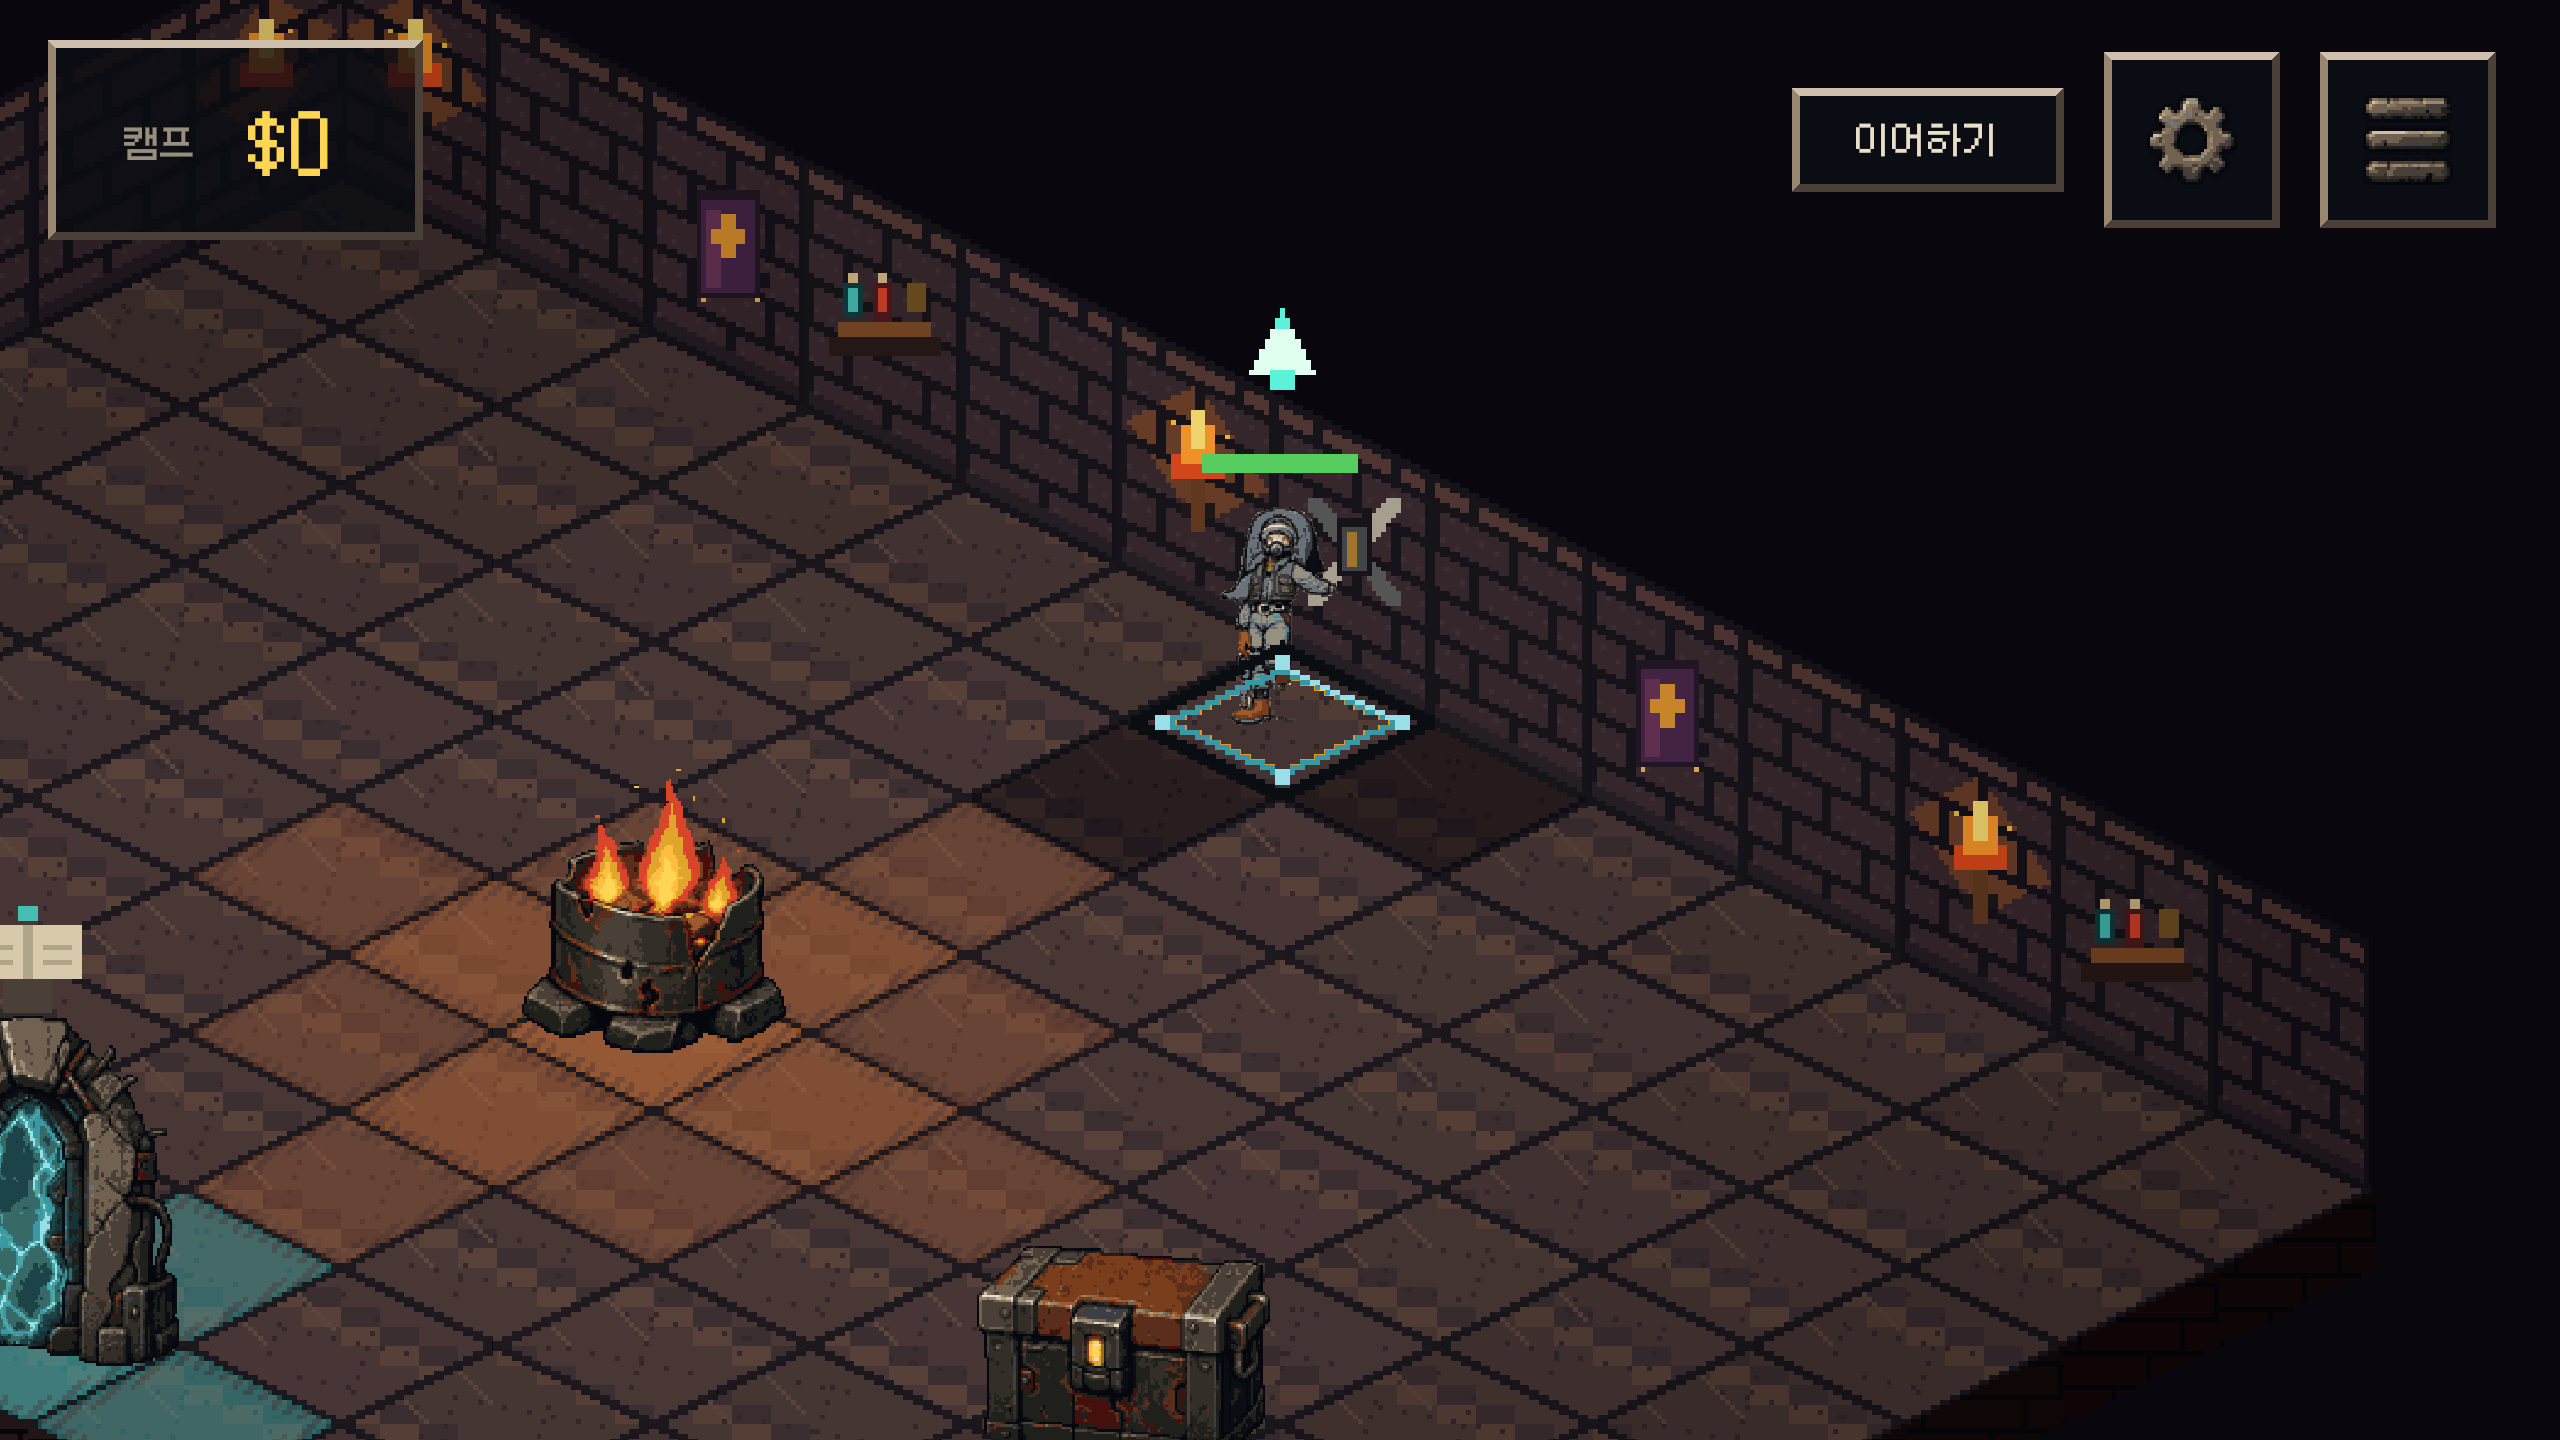
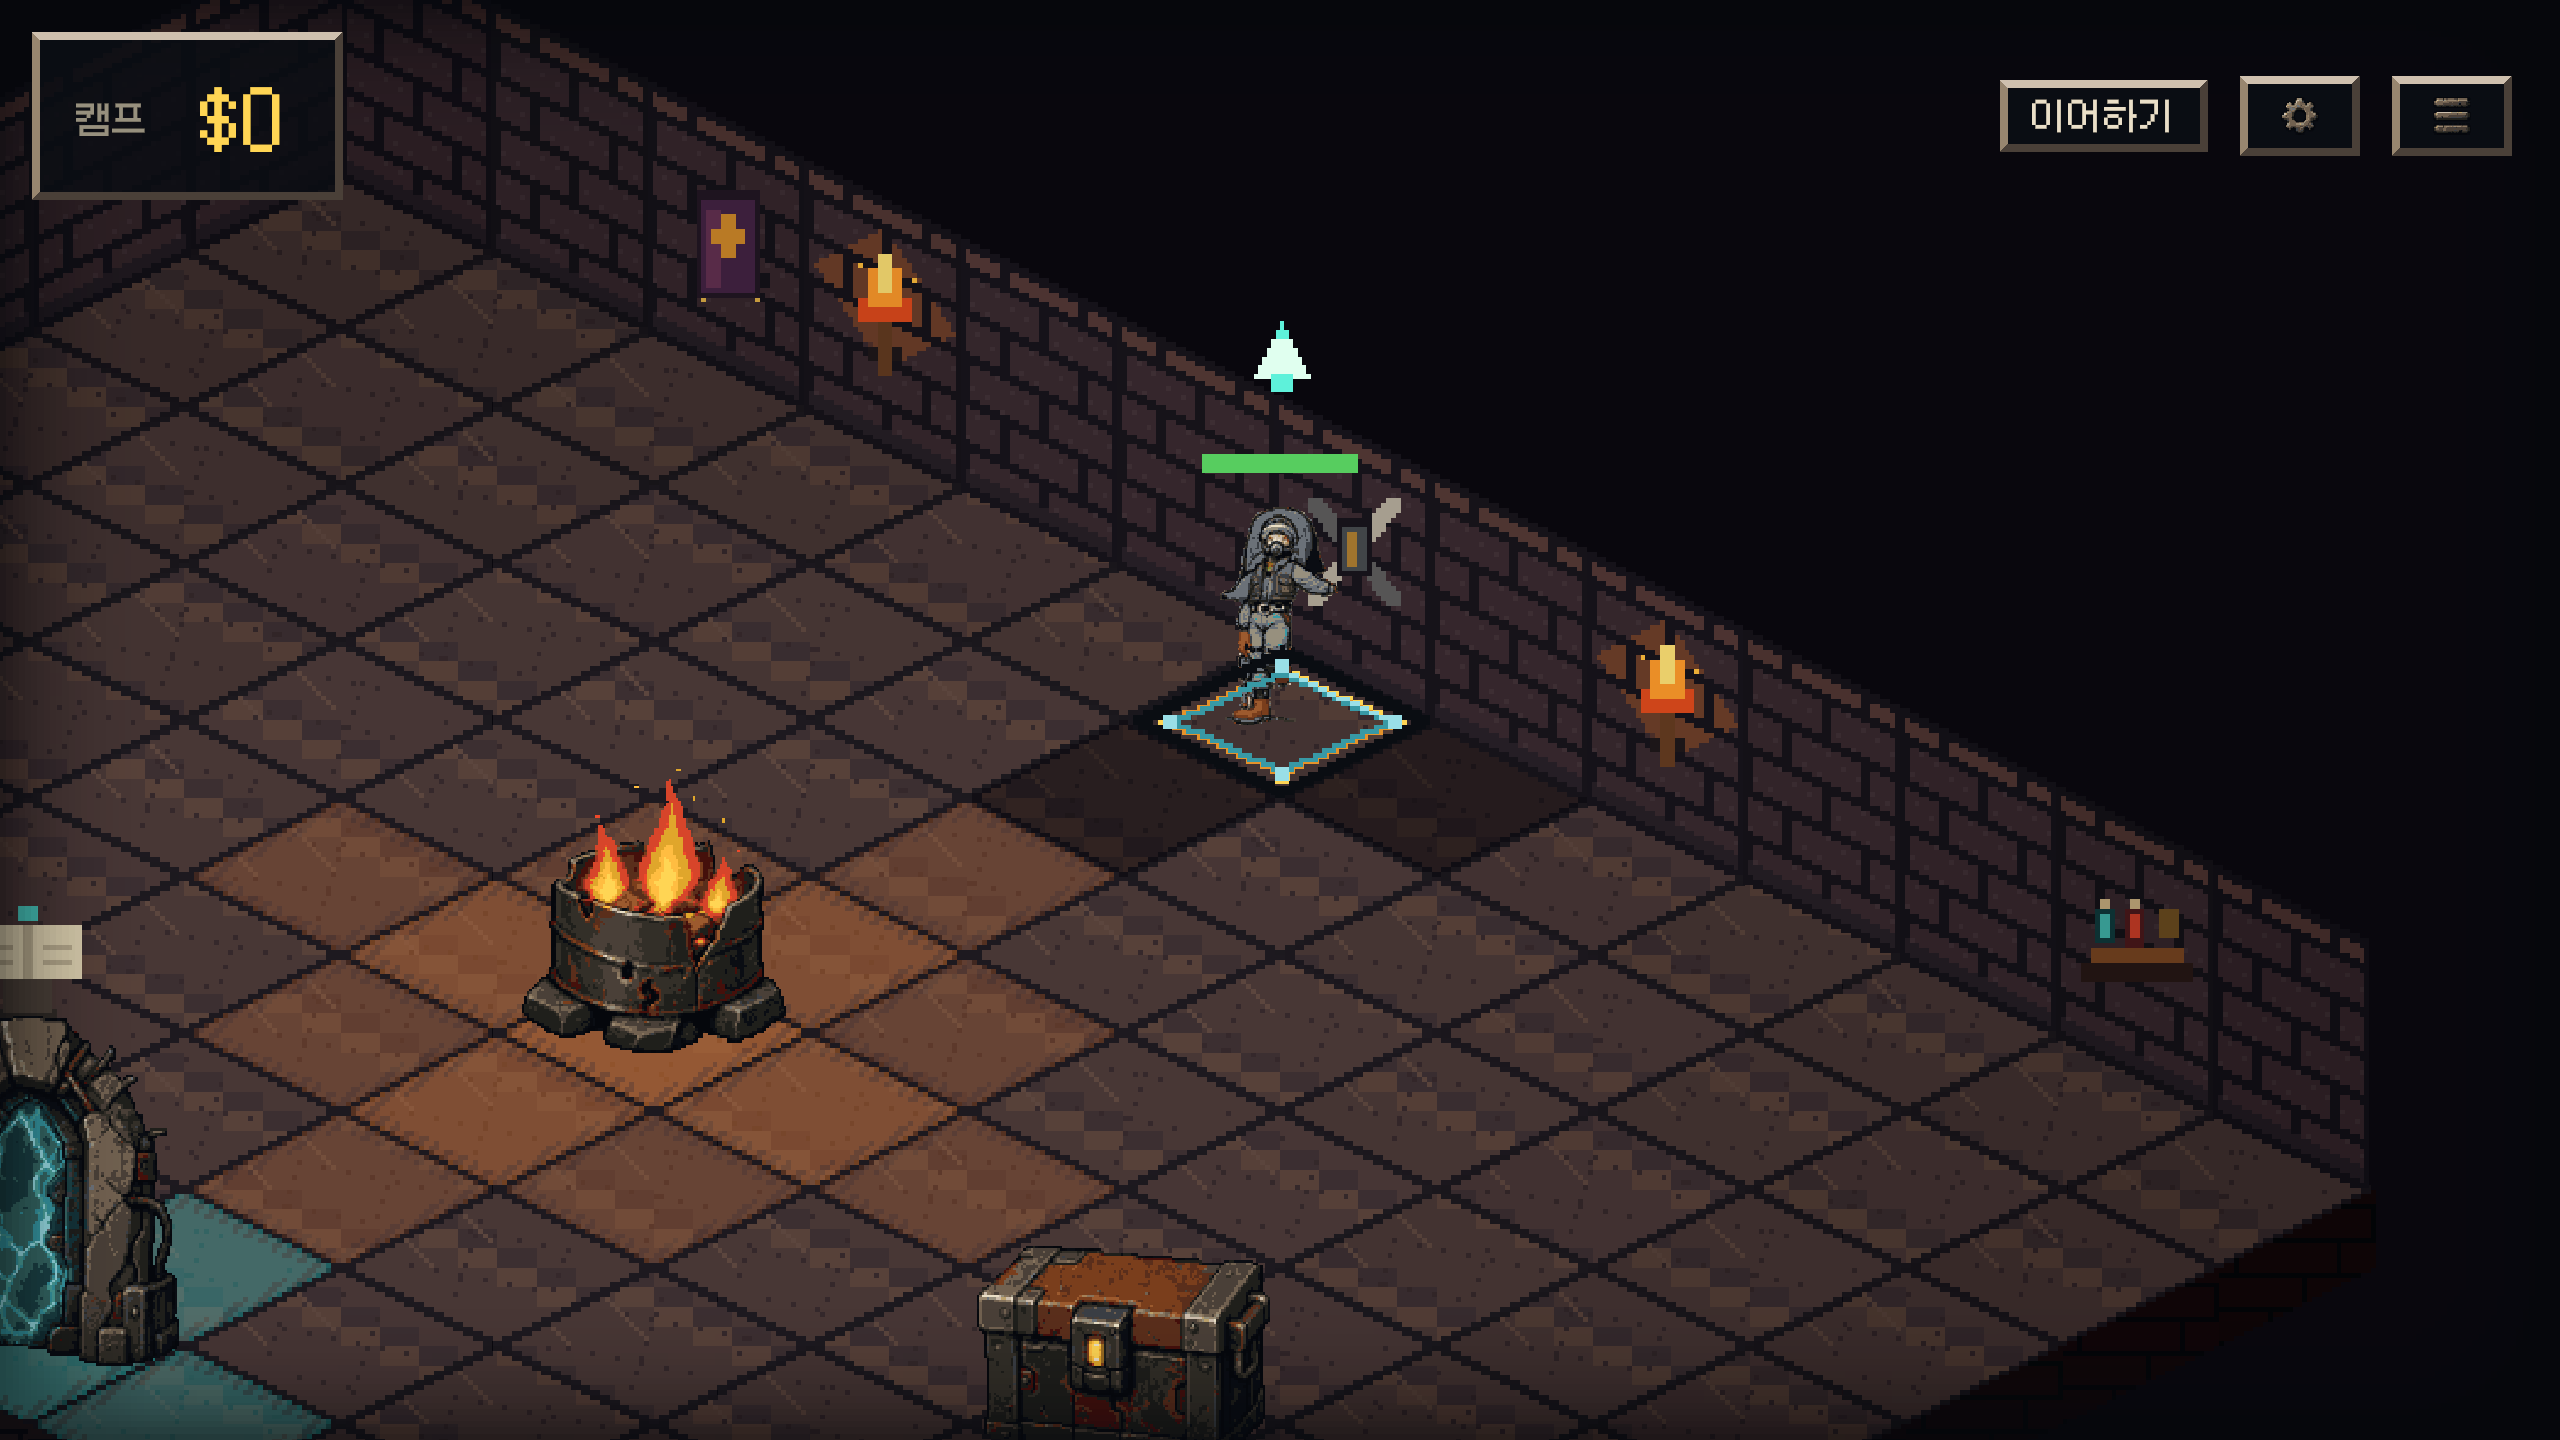
fix: 허브 화면을 640×360 캔버스로 옮기고 접힌 버튼을 되살린다
Phase 4(d78f9d2)는 허브의 타이포·상태칩·`is-locked`만 옮기고 **치수를 빠뜨렸다.** 메인 메뉴는
리튜닝했는데 허브는 960×540 시절 값이 그대로 남아 있었다:

- 아이콘 버튼 44×44 (던전은 20×14) — 버튼 하나가 캔버스 폭의 7%
- `.ui-icon` 24px — 허브엔 오버라이드가 없어 DesignSystem 기본값이 그대로 왔다.
  "갤러리 전용"이라던 옛 기본 크기가 **라이브 화면으로 새던 유일한 경로**다.
- 출정 준비 카드 960px, 던전 선택 카드 820px — 둘 다 캔버스(640)보다 넓었다

던전 계기 묶음과 같은 밀도로 맞췄다. 모달 폭은 유도해서 정했다 — 출정 카드 600
(= pc-window 패딩 24 + 창고 272 + 이송 레일 48 + 적재 256), 적재 페인은 백팩 격자
6×4 @ 피치 40 = 240 이 기준이다.

**곁다리로 내가 낸 회귀를 찾아 고쳤다.** Phase 3(c9d5e8b)에서 닫기 버튼을 아이콘 크기로
줄일 때, 원본이 `.settings-reset, .settings-close { … }` **그룹 셀렉터**인 걸 못 보고 본문을
통째로 갈아 끼웠다. 그래서 `.settings-reset`이 `width: 16px`을 물려받아 "게임 포기하기"·
"로비로 가기"·"생환하기"·"출정 백팩 준비"가 전부 16px로 접혔다(실측 92 → 16).
둘을 분리하고, 왜 묶으면 안 되는지 주석으로 남겼다. 같은 패턴이 다른 곳에 있는지
USS 전체를 훑어 확인했다 — 없다.

같은 함정 둘을 또 밟아서 함께 고쳤다:
- 출정 백팩 헤더를 `height: 20px`으로 못박았는데 제목+부제 두 줄이라 둘째 줄이 격자 위로
  흘러 겹쳤다 → `height: auto`.
- 출정 카드 `height: 88%`는 창고가 비었을 때도 카드가 화면을 채워 하단 안내를 잘랐다
  → `height: auto; max-height: 100%` (인벤토리 카드에서 배운 것과 같다).

허브 모달 7장에도 `.pc-window` 9-slice를 부여했다 — 크롬 어휘를 둘로 줄인 규칙이
던전에만 적용돼 있었다.

모바일 비파괴 확인(계획의 검증 목록에 있었으나 미이행이던 항목): 390×844에서
논리 캔버스 390×844(배율 1), **루트 밖으로 나가는 요소 0개**. 재설계는 하지 않았다.

검증: Core shim 990 · EditMode 1154 · PlayMode 2 전부 통과.
캡처 docs/captures/ui-redesign-{hub,hub-dungeon-select,hub-expedition}-2560x1440.png,
ui-redesign-mobile-390x844.png.

diff --git a/docs/ROADMAP.md b/docs/ROADMAP.md
@@ -69,8 +69,15 @@
   - Phase 5: 화면공간 비네트(URP 포스트프로세싱 아님) + 등잔 아트↔빛 커플링 버그 수정.
   - 크롬 어휘를 여섯에서 **둘**(플레이트/창)로 줄였다. 이건 `docs/UI_DESIGN_SYSTEM.md`의
     "인게임에 창 금지" 규칙을 사용자가 완화한 결과다 — 몰입보다 시인성이 앞선다.
+  - **후속**: 허브 화면은 Phase 4에서 타이포만 옮기고 **치수를 빠뜨렸다**(아이콘 버튼 44×44,
+    `.ui-icon` 24px, 출정 준비 카드 960px). 별도 커밋으로 640×360에 맞췄고, 같은 작업에서
+    Phase 3이 남긴 `.settings-reset` 폭 붕괴 회귀를 찾아 고쳤다.
   - **남은 부채**: ① 모바일은 재설계하지 않았다(깨지지 않을 정도만 유지 — CLAUDE.md 우선순위).
-    ③ `DesignSystem.uss`의 갤러리 전용 컴포넌트 기본 크기는 아직 옛 캔버스 기준이다.
+    390×844에서 루트 밖으로 나가는 요소 0개를 확인했다(`ui-redesign-mobile-390x844.png`).
+    ② `DesignSystem.uss`의 갤러리 전용 컴포넌트(`.pc-dia`·`.pc-dbtn`·`.pc-slot`·`.pc-rail-link`·
+    `.pc-readout`) 기본 크기는 아직 옛 캔버스 기준이다 — **전부 `DesignSystemGallery.uxml`
+    전용이라 라이브 화면 영향은 없다**(라이브로 새던 유일한 경로였던 허브 `.ui-icon`은 위에서 막았다).
+    ③ 내구도 시스템은 도입하지 않았다 — 부채가 아니라 결정이고, 판단 근거는 `docs/SYSTEMS.md` §백팩.
   - 캡처: `docs/captures/ui-redesign-*.png`
 - [x] **임시 통합 아트 패스** — 환경→UI→액터 단계 게이트로 기존 포스트아포 소스시트를
   공용 팔레트에 재잠그고, 메인 메뉴 폐병원 배경·UI 아이콘/9-slice·카탈로그 액터/소품을
